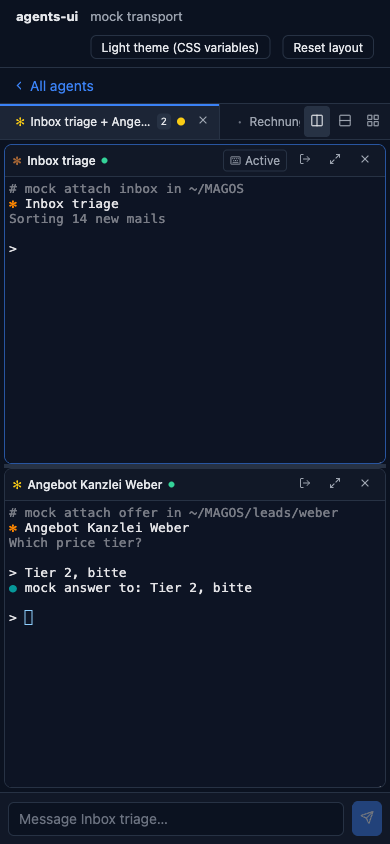
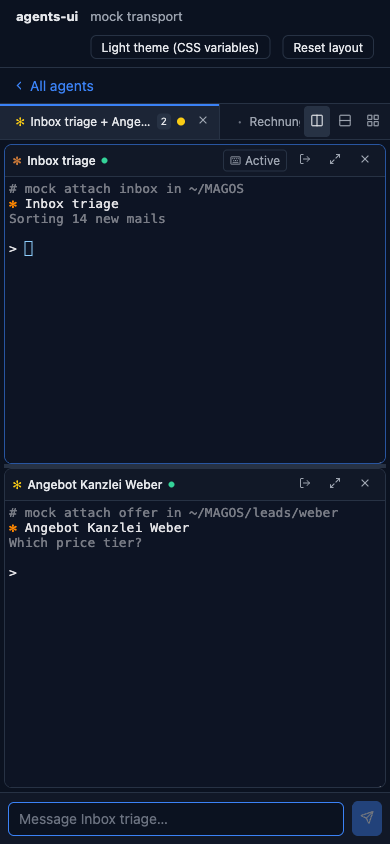
fix: message box height in narrow mode, mock list latency, state screenshots
Claude-Session: https://claude.ai/code/session_01D4z4T8D1qu7diVZPiQLokq

diff --git a/dist/transports/mock.js b/dist/transports/mock.js
@@ -29,8 +29,14 @@ export function createMockTransport(initial = [], latencyMs = 0) {
         },
         subscribe(onAgents) {
             listeners.add(onAgents);
-            onAgents(agents);
-            return () => listeners.delete(onAgents);
+            // with latency the first list arrives late, like a real server (shows the loading state)
+            if (!latencyMs)
+                onAgents(agents);
+            const t = latencyMs ? setTimeout(() => onAgents(agents), latencyMs) : undefined;
+            return () => {
+                clearTimeout(t);
+                listeners.delete(onAgents);
+            };
         },
         async start({ cwd, prompt, name }) {
             const id = `mock${++counter}`;

diff --git a/src/transports/mock.ts b/src/transports/mock.ts
@@ -44,8 +44,13 @@ export function createMockTransport(initial: Agent[] = [], latencyMs = 0): MockT
     },
     subscribe(onAgents) {
       listeners.add(onAgents);
-      onAgents(agents);
-      return () => listeners.delete(onAgents);
+      // with latency the first list arrives late, like a real server (shows the loading state)
+      if (!latencyMs) onAgents(agents);
+      const t = latencyMs ? setTimeout(() => onAgents(agents), latencyMs) : undefined;
+      return () => {
+        clearTimeout(t);
+        listeners.delete(onAgents);
+      };
     },
     async start({ cwd, prompt, name }) {
       const id = `mock${++counter}`;

diff --git a/src/ChatInput.tsx b/src/ChatInput.tsx
@@ -16,6 +16,8 @@ export const ChatInput: React.FC<{ target: Agent | null }> = ({ target }) => {
   useLayoutEffect(() => {
     const el = ref.current;
     if (!el) return;
+    // empty: one row; measuring here would size the box to a placeholder wrapped in a hidden, narrow pane
+    if (!text) return void (el.style.height = '');
     el.style.height = 'auto';
     // border-box: scrollHeight leaves out the borders
     el.style.height = `${Math.min(el.scrollHeight + el.offsetHeight - el.clientHeight, 160)}px`;

diff --git a/dist/ChatInput.js b/dist/ChatInput.js
@@ -15,6 +15,9 @@ export const ChatInput = ({ target }) => {
         const el = ref.current;
         if (!el)
             return;
+        // empty: one row; measuring here would size the box to a placeholder wrapped in a hidden, narrow pane
+        if (!text)
+            return void (el.style.height = '');
         el.style.height = 'auto';
         // border-box: scrollHeight leaves out the borders
         el.style.height = `${Math.min(el.scrollHeight + el.offsetHeight - el.clientHeight, 160)}px`;

diff --git a/demo/main.tsx b/demo/main.tsx
@@ -24,6 +24,10 @@ if (!localStorage.getItem(KEY)) {
 }
 
 const transport = createMockTransport(agents, 300);
+// Demo of the error path: the mock refuses folders outside ~/MAGOS
+const mockStart = transport.start.bind(transport);
+transport.start = (req) =>
+  req.cwd.startsWith('~/MAGOS') ? mockStart(req) : Promise.reject(new Error(`Folder outside ~/MAGOS: ${req.cwd}`));
 
 function Demo() {
   const [light, setLight] = useState(false);

diff --git a/README.md b/README.md
@@ -9,6 +9,10 @@ tabs with split/tiling, and a message box. The backend sits behind a small, swap
 | --- | --- | --- | --- |
 | ![](docs/390-list.png) | ![](docs/390-panes.png) | ![](docs/390-start-dialog.png) | ![](docs/desktop-light.png) |
 
+| Loading | Start fails | Agent stopped, pane detached |
+| --- | --- | --- |
+| ![](docs/390-loading.png) | ![](docs/desktop-start-error.png) | ![](docs/desktop-stopped-detached.png) |
+
 ## Install
 
 ```sh
@@ -21,7 +25,8 @@ fetches them as an unauthenticated tarball, 404). `dist/` is committed, so the g
 without a build step on install. After changing
 `src/`, run `bun run build` and commit `dist/` with it.
 
-Peer dependencies: `react` and `react-dom` 19.
+Peer dependencies: `react` and `react-dom` 19. Needs a bundler (Vite, webpack, bun): `dist/` uses
+extensionless imports and imports xterm's CSS.
 
 ## Use
 
@@ -73,7 +78,8 @@ against all three.
 
 ### `createHttpTransport(options)` — HTTP + SSE + WebSocket
 
-This is Orkumo's wire protocol, so a server that speaks it (Orkumo's, or one MAGOS builds) works as is:
+This is Orkumo's wire protocol (tested against fakes only, not yet against a live Orkumo server; Orkumo's
+Electron main process adds an `X-Orkumo-Renderer` auth header that a browser host would have to supply):
 
 | Call | Wire |
 | --- | --- |
